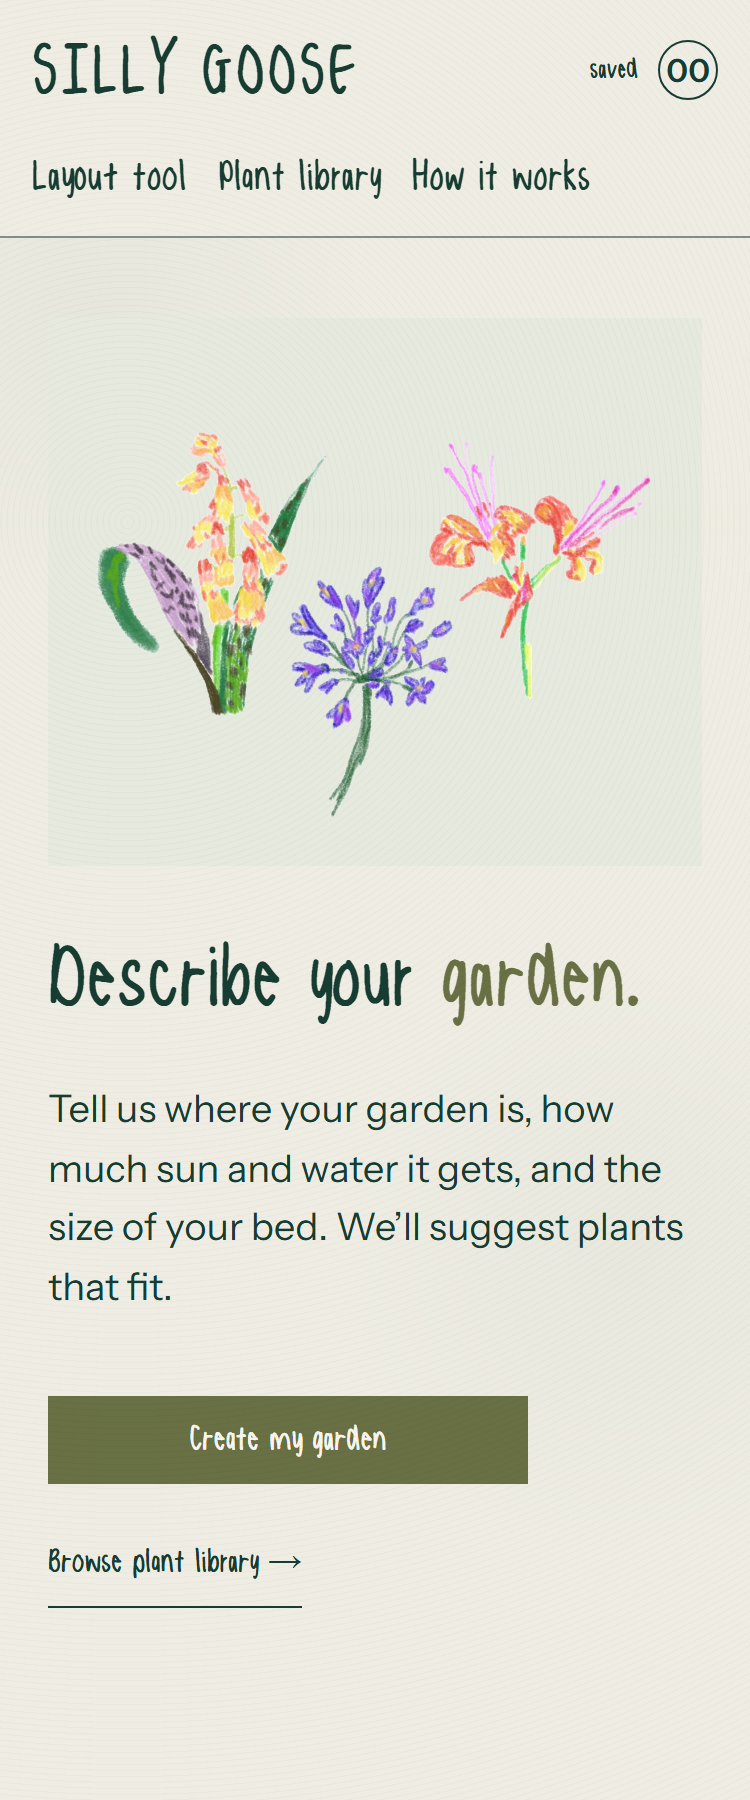
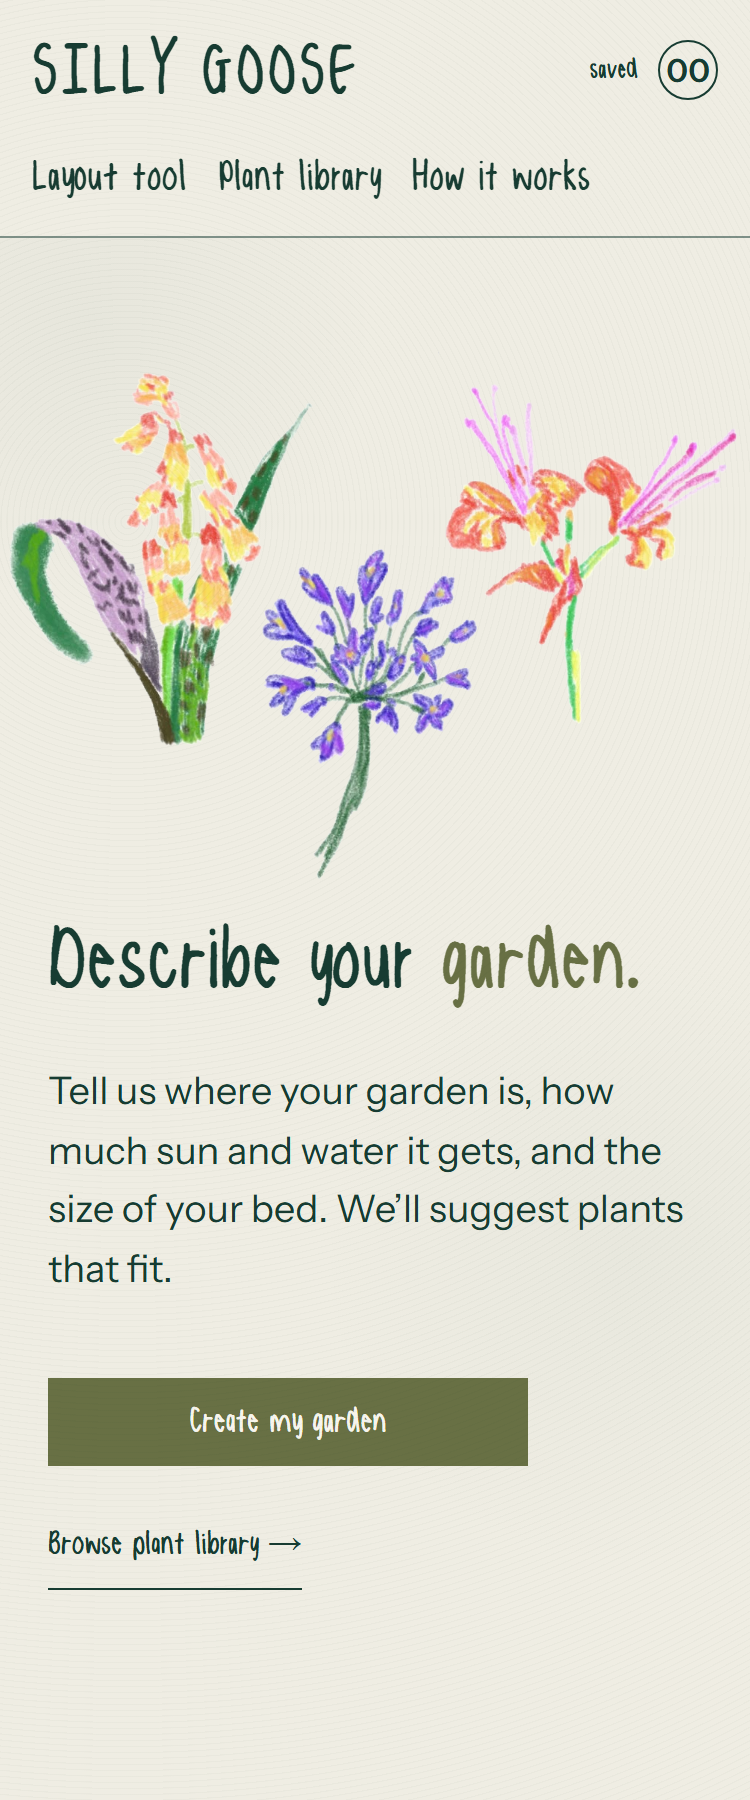
Walkthrough 3: home sketch, bed labels, viewer figure, plant types
The flower sketch had no background to remove - the PNG is already
fully transparent, corner alpha 0, 17% opaque. The tinted square was
painted by its container. Removed, and the drawing enlarged.

The map was stretched because the SVG filled its box on both axes
instead of keeping its proportions.

The bed's labels: the scale bar starts where the drawing starts, the
length label sits beside the bed rather than up by the view switch, and
north has moved to the right at 32px, clear of both. The plant-type key
under the bed is a legend, not a footnote, so it is 17px with 30px
marks.

"You stand here" is now the same standing figure the bed preview uses,
so the viewpoint mark means one thing throughout the tool. On the two
side edges the label turns with the edge. It no longer sits over the
view switch, which is what made it look out of place on the plan and
cover the controls on a saved garden.

Printing hides the drawer: it covers the bed, and the bed is the point
of the printed sheet.

The plant-type filter had six buttons while the catalogue has 21 types.
It is now a list built from the data rather than a hand-kept set that
drifted, each option carrying its count. A plant listed as "Ground
Cover, Perennial" is matched part by part, so it appears under either.

Engine untouched: fingerprints unchanged. 116 tests pass.

diff --git a/app/components/GardenApp.tsx b/app/components/GardenApp.tsx
@@ -103,14 +103,23 @@ const SOIL_DESCRIPTIONS: Record<string, string> = {
     "We will accept any of the three. Plants with no soil recorded are still left out.",
 };
 
-const formFilters = [
-  "All",
-  "Shrub",
-  "Tree",
-  "Restio",
-  "Groundcover",
-  "Geophyte",
-] as const;
+/** Every plant type in the catalogue, with how many carry it. A plant
+ * listed as "Ground Cover, Perennial" counts under both, and appears
+ * under either filter - the field is a list, so it is read as one. */
+const PLANT_TYPE_OPTIONS: { value: string; label: string; count: number }[] = (() => {
+  const counts = new Map<string, number>();
+  for (const plant of plants) {
+    for (const part of String(plant.form ?? "")
+      .split(",")
+      .map((piece) => piece.trim())
+      .filter(Boolean)) {
+      counts.set(part, (counts.get(part) ?? 0) + 1);
+    }
+  }
+  return [...counts.entries()]
+    .sort((left, right) => right[1] - left[1] || left[0].localeCompare(right[0]))
+    .map(([value, count]) => ({ value, label: value, count }));
+})();
 
 function formatDimension(value: number | null) {
   if (value === null) return "Not measured";
@@ -2088,6 +2097,27 @@ function SavedHeart() {
 
 /** The planting plan: every plant as a circle at its position, north at the
  * top. Used for the live layout and for saved gardens alike. */
+/** The standing figure from the bed preview, reused on the plan so the
+ * viewpoint mark means the same thing in both places. It sits on the
+ * edge the gardener said they stand on, facing into the bed. */
+function ViewerFigure() {
+  return (
+    <svg
+      className="viewer-figure"
+      viewBox="0 0 24 24"
+      fill="none"
+      stroke="currentColor"
+      strokeWidth="1.8"
+      strokeLinecap="round"
+      aria-hidden="true"
+      focusable="false"
+    >
+      <circle cx="12" cy="5" r="2.6" fill="currentColor" stroke="none" />
+      <path d="M12 8v7M7.5 10.5h9M12 15l-3 6M12 15l3 6" />
+    </svg>
+  );
+}
+
 function BedDiagram({
   widthM,
   lengthM,
@@ -2206,8 +2236,12 @@ function BedDiagram({
         })}
       </div>
       {viewingEdge ? (
-        <span className={`plan-front-edge is-${viewingEdge}`}>
-          you stand here
+        <span
+          className={`plan-front-edge is-${viewingEdge}`}
+          title="You stand on this side"
+        >
+          <ViewerFigure />
+          <span className="plan-front-edge-text">you stand here</span>
         </span>
       ) : null}
       {/* Sits outside .plan-bed, which clips its children, so a name near
@@ -2694,7 +2728,7 @@ function CollectionView({
   // Latest budget line per plan (by seed), so saving can store it.
   const [budgets, setBudgets] = useState<Record<string, SavedBudget>>({});
   const [query, setQuery] = useState("");
-  const [form, setForm] = useState<(typeof formFilters)[number]>("All");
+  const [form, setForm] = useState<string>("All");
   const [limit, setLimit] = useState(12);
   // Regenerate deliberately produces a different set; reopening the same
   // counter reproduces this one exactly (spec 8.6).
@@ -2753,12 +2787,13 @@ function CollectionView({
     const queryMatches = haystack.includes(query.toLowerCase());
     const formMatches =
       form === "All" ||
-      (form === "Shrub" && plant.form.toLowerCase().includes("shrub")) ||
-      // Spaces are stripped from both sides: the filter reads
-      // "Groundcover" while the catalogue says "Ground Cover", which
-      // hid all 199 of them.
-      plant.form.toLowerCase().replace(/\s+/g, "")
-        .includes(form.toLowerCase().replace(/\s+/g, ""));
+      // The field is a list - "Ground Cover, Perennial" - so it is
+      // matched part by part rather than as one string. A plant under
+      // two types appears under either.
+      plant.form
+        .split(",")
+        .map((part) => part.trim().toLowerCase())
+        .includes(form.toLowerCase());
     return queryMatches && formMatches;
   });
 
@@ -2861,23 +2896,27 @@ function CollectionView({
               placeholder="Search by common or scientific name"
             />
           </label>
-          <div className="filter-row">
-            <span>Plant form</span>
-            <div>
-              {formFilters.map((item) => (
-                <button
-                  key={item}
-                  className={form === item ? "is-active" : ""}
-                  onClick={() => {
-                    setForm(item);
-                    setLimit(12);
-                  }}
-                >
-                  {item}
-                </button>
+          {/* Twenty-one types is too many to show as buttons, so this is
+              a list. Each one carries its count, which saves choosing a
+              type and finding three plants behind it. */}
+          <label className="filter-row">
+            <span>Plant type</span>
+            <select
+              className="plant-type-select"
+              value={form}
+              onChange={(event) => {
+                setForm(event.target.value);
+                setLimit(12);
+              }}
+            >
+              <option value="All">All types ({plants.length.toLocaleString("en-ZA")})</option>
+              {PLANT_TYPE_OPTIONS.map((option) => (
+                <option key={option.value} value={option.value}>
+                  {option.label} ({option.count})
+                </option>
               ))}
-            </div>
-          </div>
+            </select>
+          </label>
         </section>
 
         <div className="results-count">

diff --git a/app/globals.css b/app/globals.css
@@ -5677,3 +5677,156 @@ body {
 .choice-stack.preference-blocks .choice-grid {
   margin-top: 0;
 }
+
+/* =====================================================================
+   WALKTHROUGH 3 (2026-10-12)
+   ===================================================================== */
+
+/* The sketch itself is already transparent - the "background" was a
+   tinted square this container painted behind it. Gone, and the drawing
+   is given the room to be inviting rather than framed. */
+.home-illustration {
+  padding: 0;
+  aspect-ratio: auto;
+  background: none;
+}
+
+.home-illustration img {
+  width: min(100%, 680px);
+  max-height: none;
+  transform: scale(1.12);
+  transform-origin: center;
+}
+
+/* The map was stretched: the SVG filled its box on both axes instead of
+   keeping its own proportions. */
+.bioregion-map-svg,
+.place-step .bioregion-map-svg {
+  height: auto;
+  max-height: 64vh;
+  object-fit: contain;
+}
+
+/* "Or pick exact colours" was a small summary between two large blocks,
+   so it disappeared between them. */
+.colour-custom summary {
+  font-size: 1.25rem;
+}
+
+/* Headings on the plan, one size, so the eye can tell a section from a
+   note. "View notes" is the note, so it goes the other way. */
+.collection-note .text-link,
+.sourcing-panel h3,
+.plan-assumptions summary {
+  font-size: 1.375rem;
+}
+
+.plan-assumptions summary span {
+  font-size: var(--text-sm);
+}
+
+/* The bed's own labels. The scale bar measures the drawing, so it
+   starts where the drawing starts; the length label sits beside the
+   bed, not up by the view switch; north moves to the right, clear of
+   both. */
+.plan-bed-wrap {
+  padding-left: 0;
+}
+
+.plan-scale {
+  margin-left: 0;
+}
+
+.plan-north {
+  right: 0;
+  left: auto;
+  text-align: right;
+  font-size: 2rem;
+}
+
+.plan-measure-length {
+  top: 50%;
+  left: 0;
+  transform: translate(-100%, -50%);
+}
+
+.plan-measure-width {
+  bottom: 0;
+}
+
+/* The plant-type key under the bed is a legend for the whole drawing,
+   not a footnote. */
+.symbol-key li {
+  font-size: 1.0625rem;
+}
+
+.symbol-key-mark,
+.symbol-key-mark svg {
+  width: 30px;
+  height: 30px;
+}
+
+/* Printing: the drawer covers the bed, and the bed is the point of the
+   printed sheet. */
+@media print {
+  .plan-legend,
+  .plan-drawer-tab {
+    display: none !important;
+  }
+
+  .plan-bed {
+    max-width: none;
+  }
+}
+
+/* The viewpoint mark: the same standing figure as the bed preview, on
+   the edge the gardener stands on. It used to sit over the view switch
+   on the plan and over the controls on a saved garden. */
+.plan-front-edge {
+  display: inline-flex;
+  gap: 8px;
+  align-items: center;
+  z-index: 2;
+}
+
+.viewer-figure {
+  width: 24px;
+  height: 24px;
+  color: var(--olive);
+  flex: none;
+}
+
+.plan-front-edge-text {
+  font-size: 1.0625rem;
+}
+
+/* On the two side edges the label turns with the edge, so it reads
+   along the side it marks rather than across the drawing. */
+.plan-front-edge.is-west .plan-front-edge-text,
+.plan-front-edge.is-east .plan-front-edge-text {
+  writing-mode: vertical-rl;
+}
+
+.plan-front-edge.is-west .plan-front-edge-text {
+  transform: rotate(180deg);
+}
+
+/* The plant-type list. Twenty-one options with counts, so choosing a
+   type never leads to an almost-empty page. */
+.plant-type-select {
+  width: 100%;
+  min-height: 48px;
+  padding: 10px 14px;
+  border: 1px solid var(--line-strong);
+  border-radius: 8px;
+  background: var(--paper-light);
+  color: var(--ink);
+  font-family: var(--sans);
+  font-size: var(--text-md);
+}
+
+.filter-row {
+  display: grid;
+  gap: 8px;
+  align-content: start;
+}
